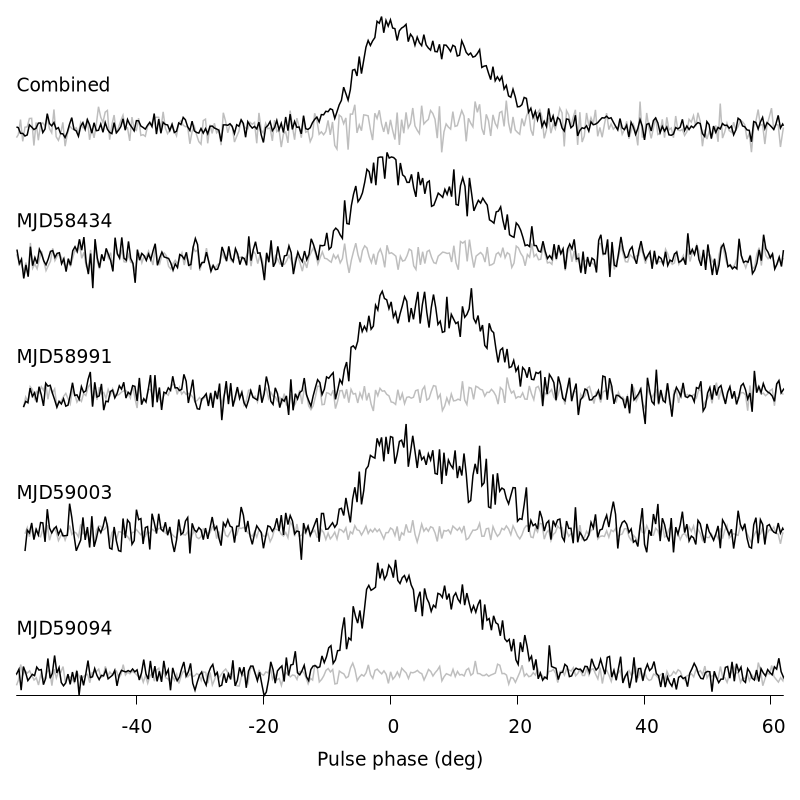
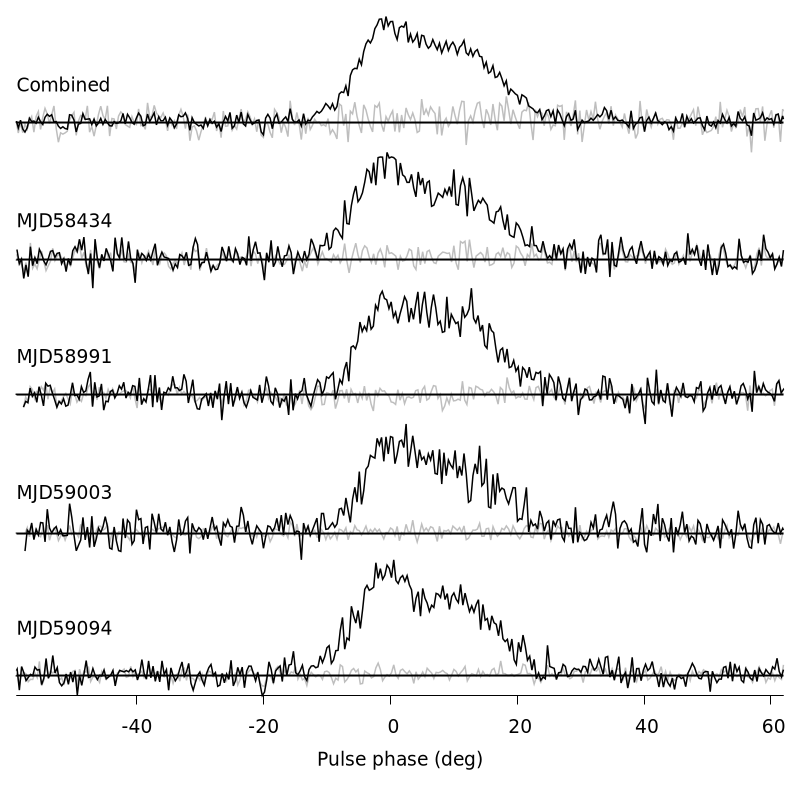
Finished response to the referee's points

diff --git a/paper/referee_report_2/response.md b/paper/referee_report_2/response.md
@@ -12,6 +12,8 @@ About 72%. We've made a note of this also in the same paragraph in 3.1.
 
 4. In Figure 1,please plot the baseline of each mean profile in oder to compare the mean profiles for the four observation better.
 
+We have plotted the line corresponding to a flux density of zero in each plot.
+
 5. In Figure 3,the vertical coordinate are marked with "frequency".In my understanding,it should be "number" or other similar parameter,please cheak it.
 
 "Frequency" is the word they normally use in statistics, short for "frequency of occurrence", which means the same thing as "number". But it's true that it can be ambiguous in a radio astronomy context! We have changed it to "Number of pulses".
